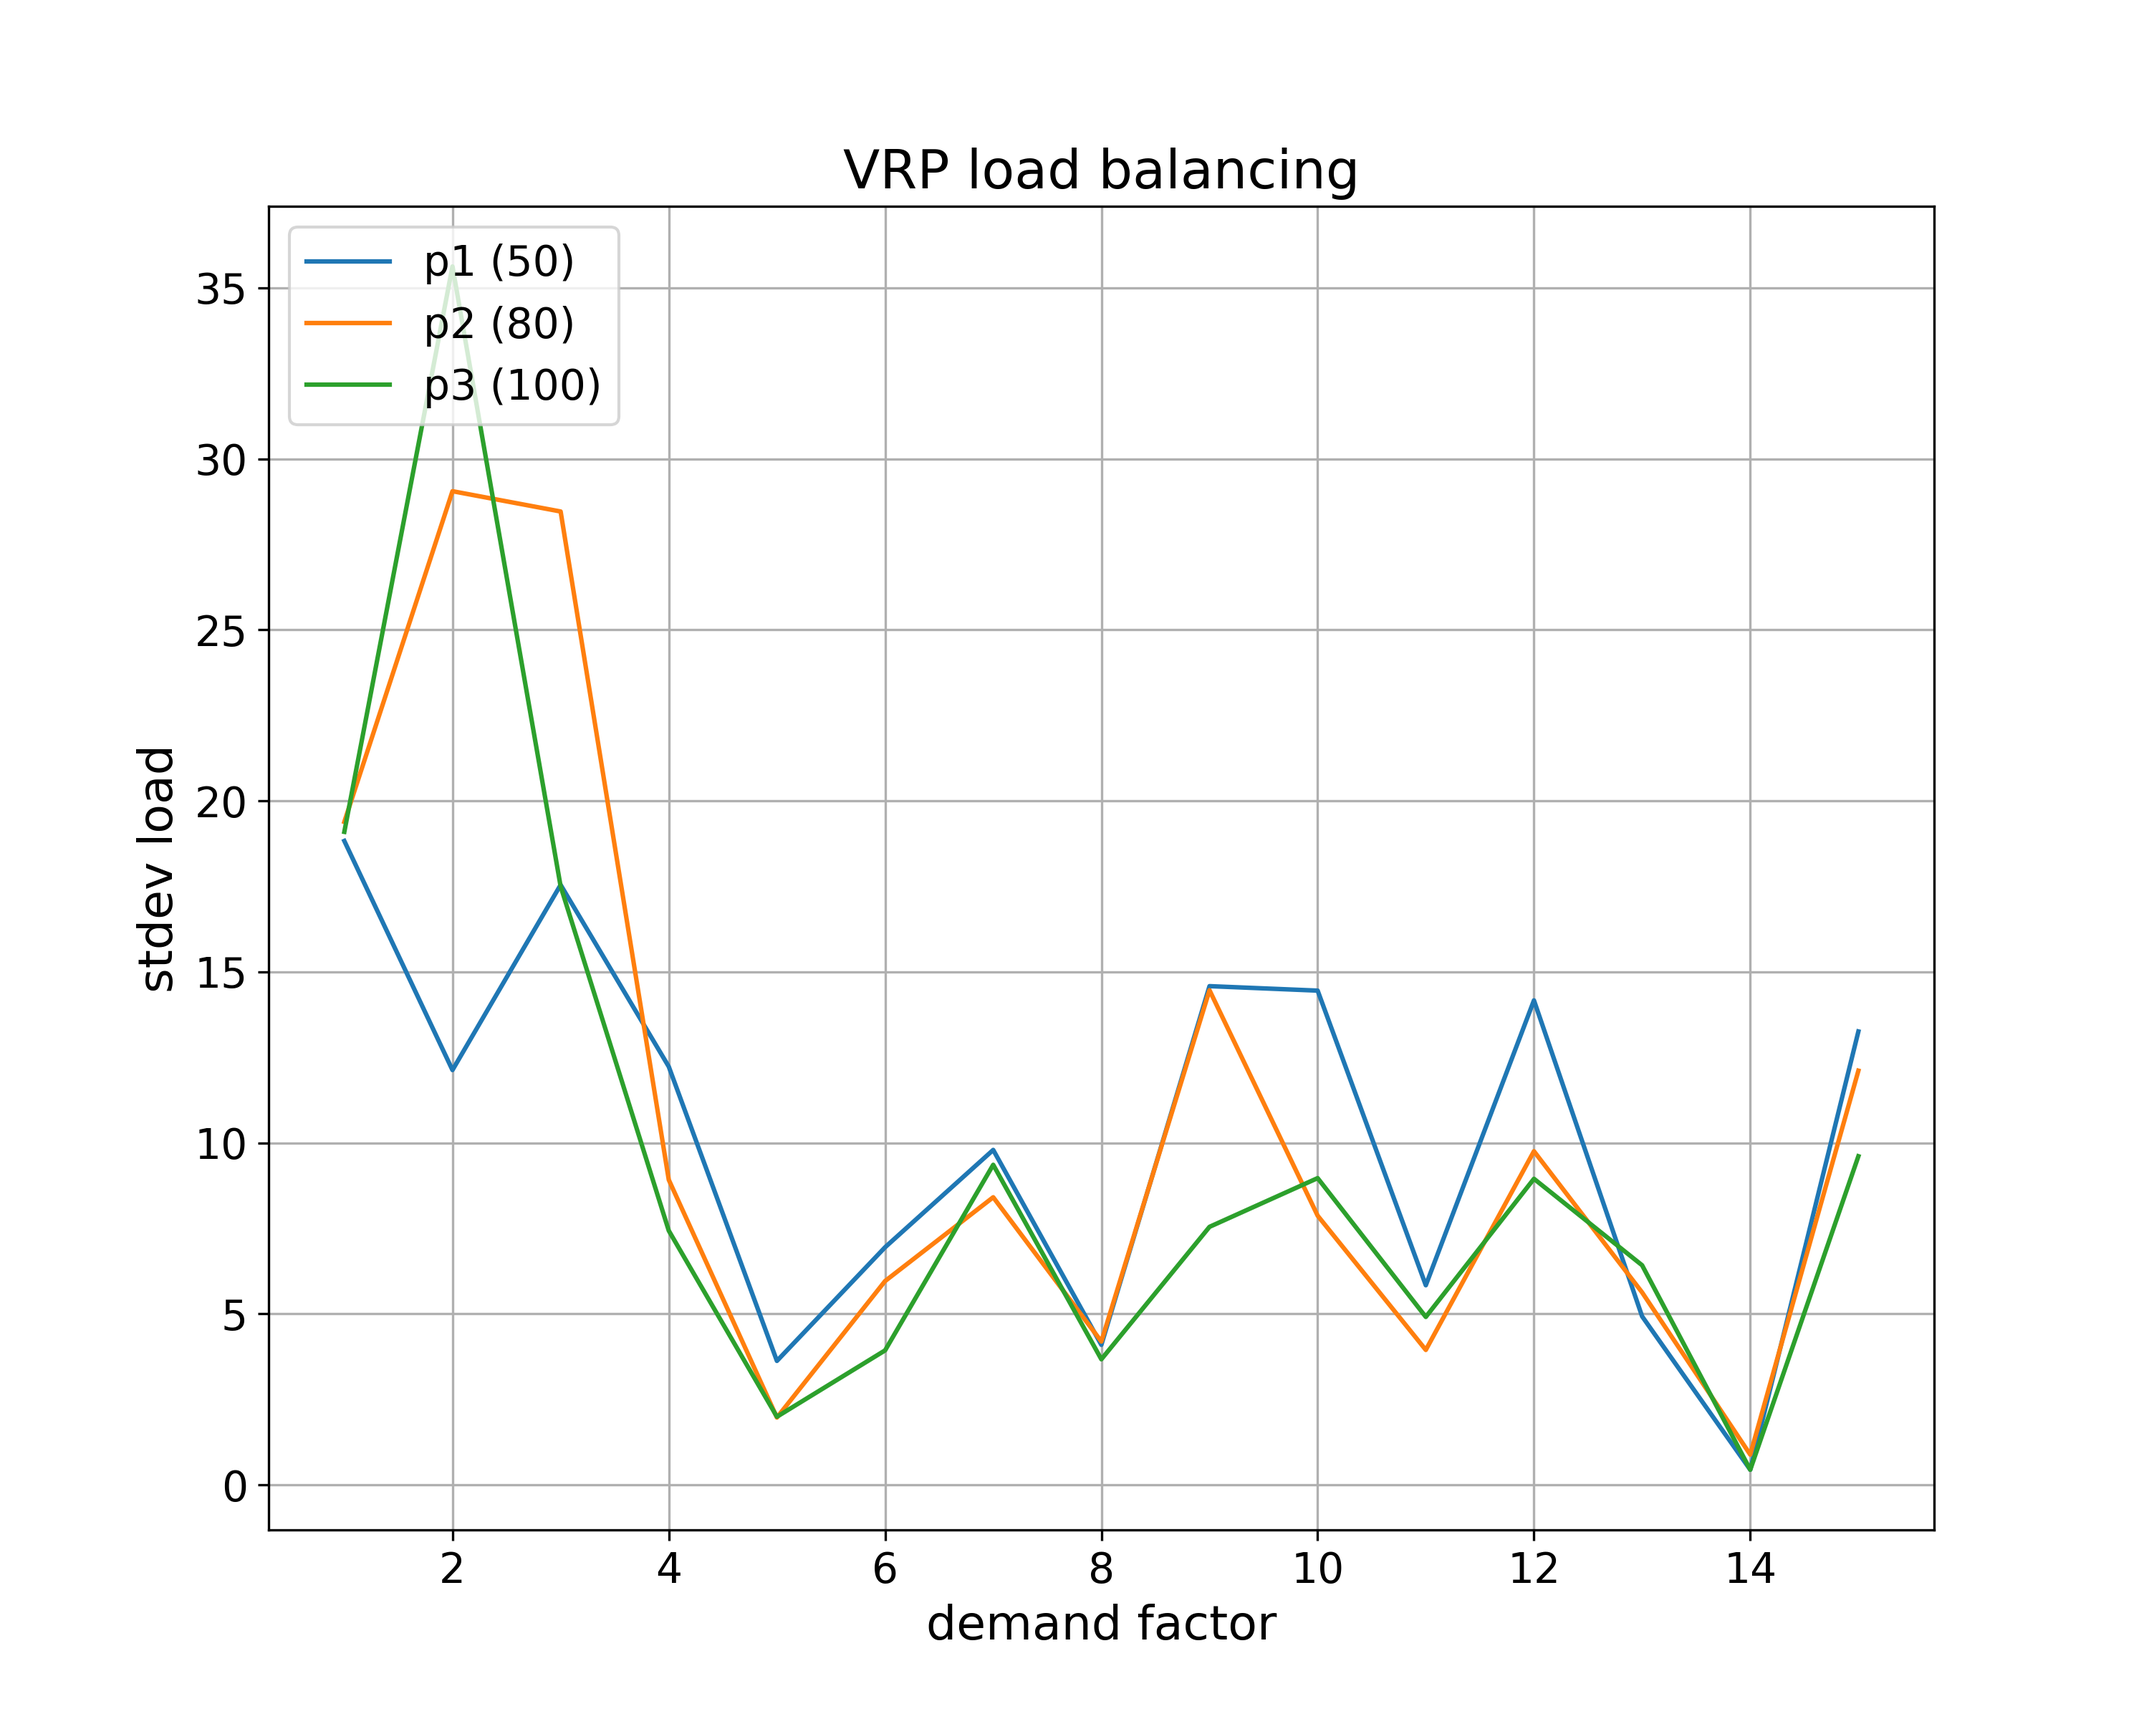
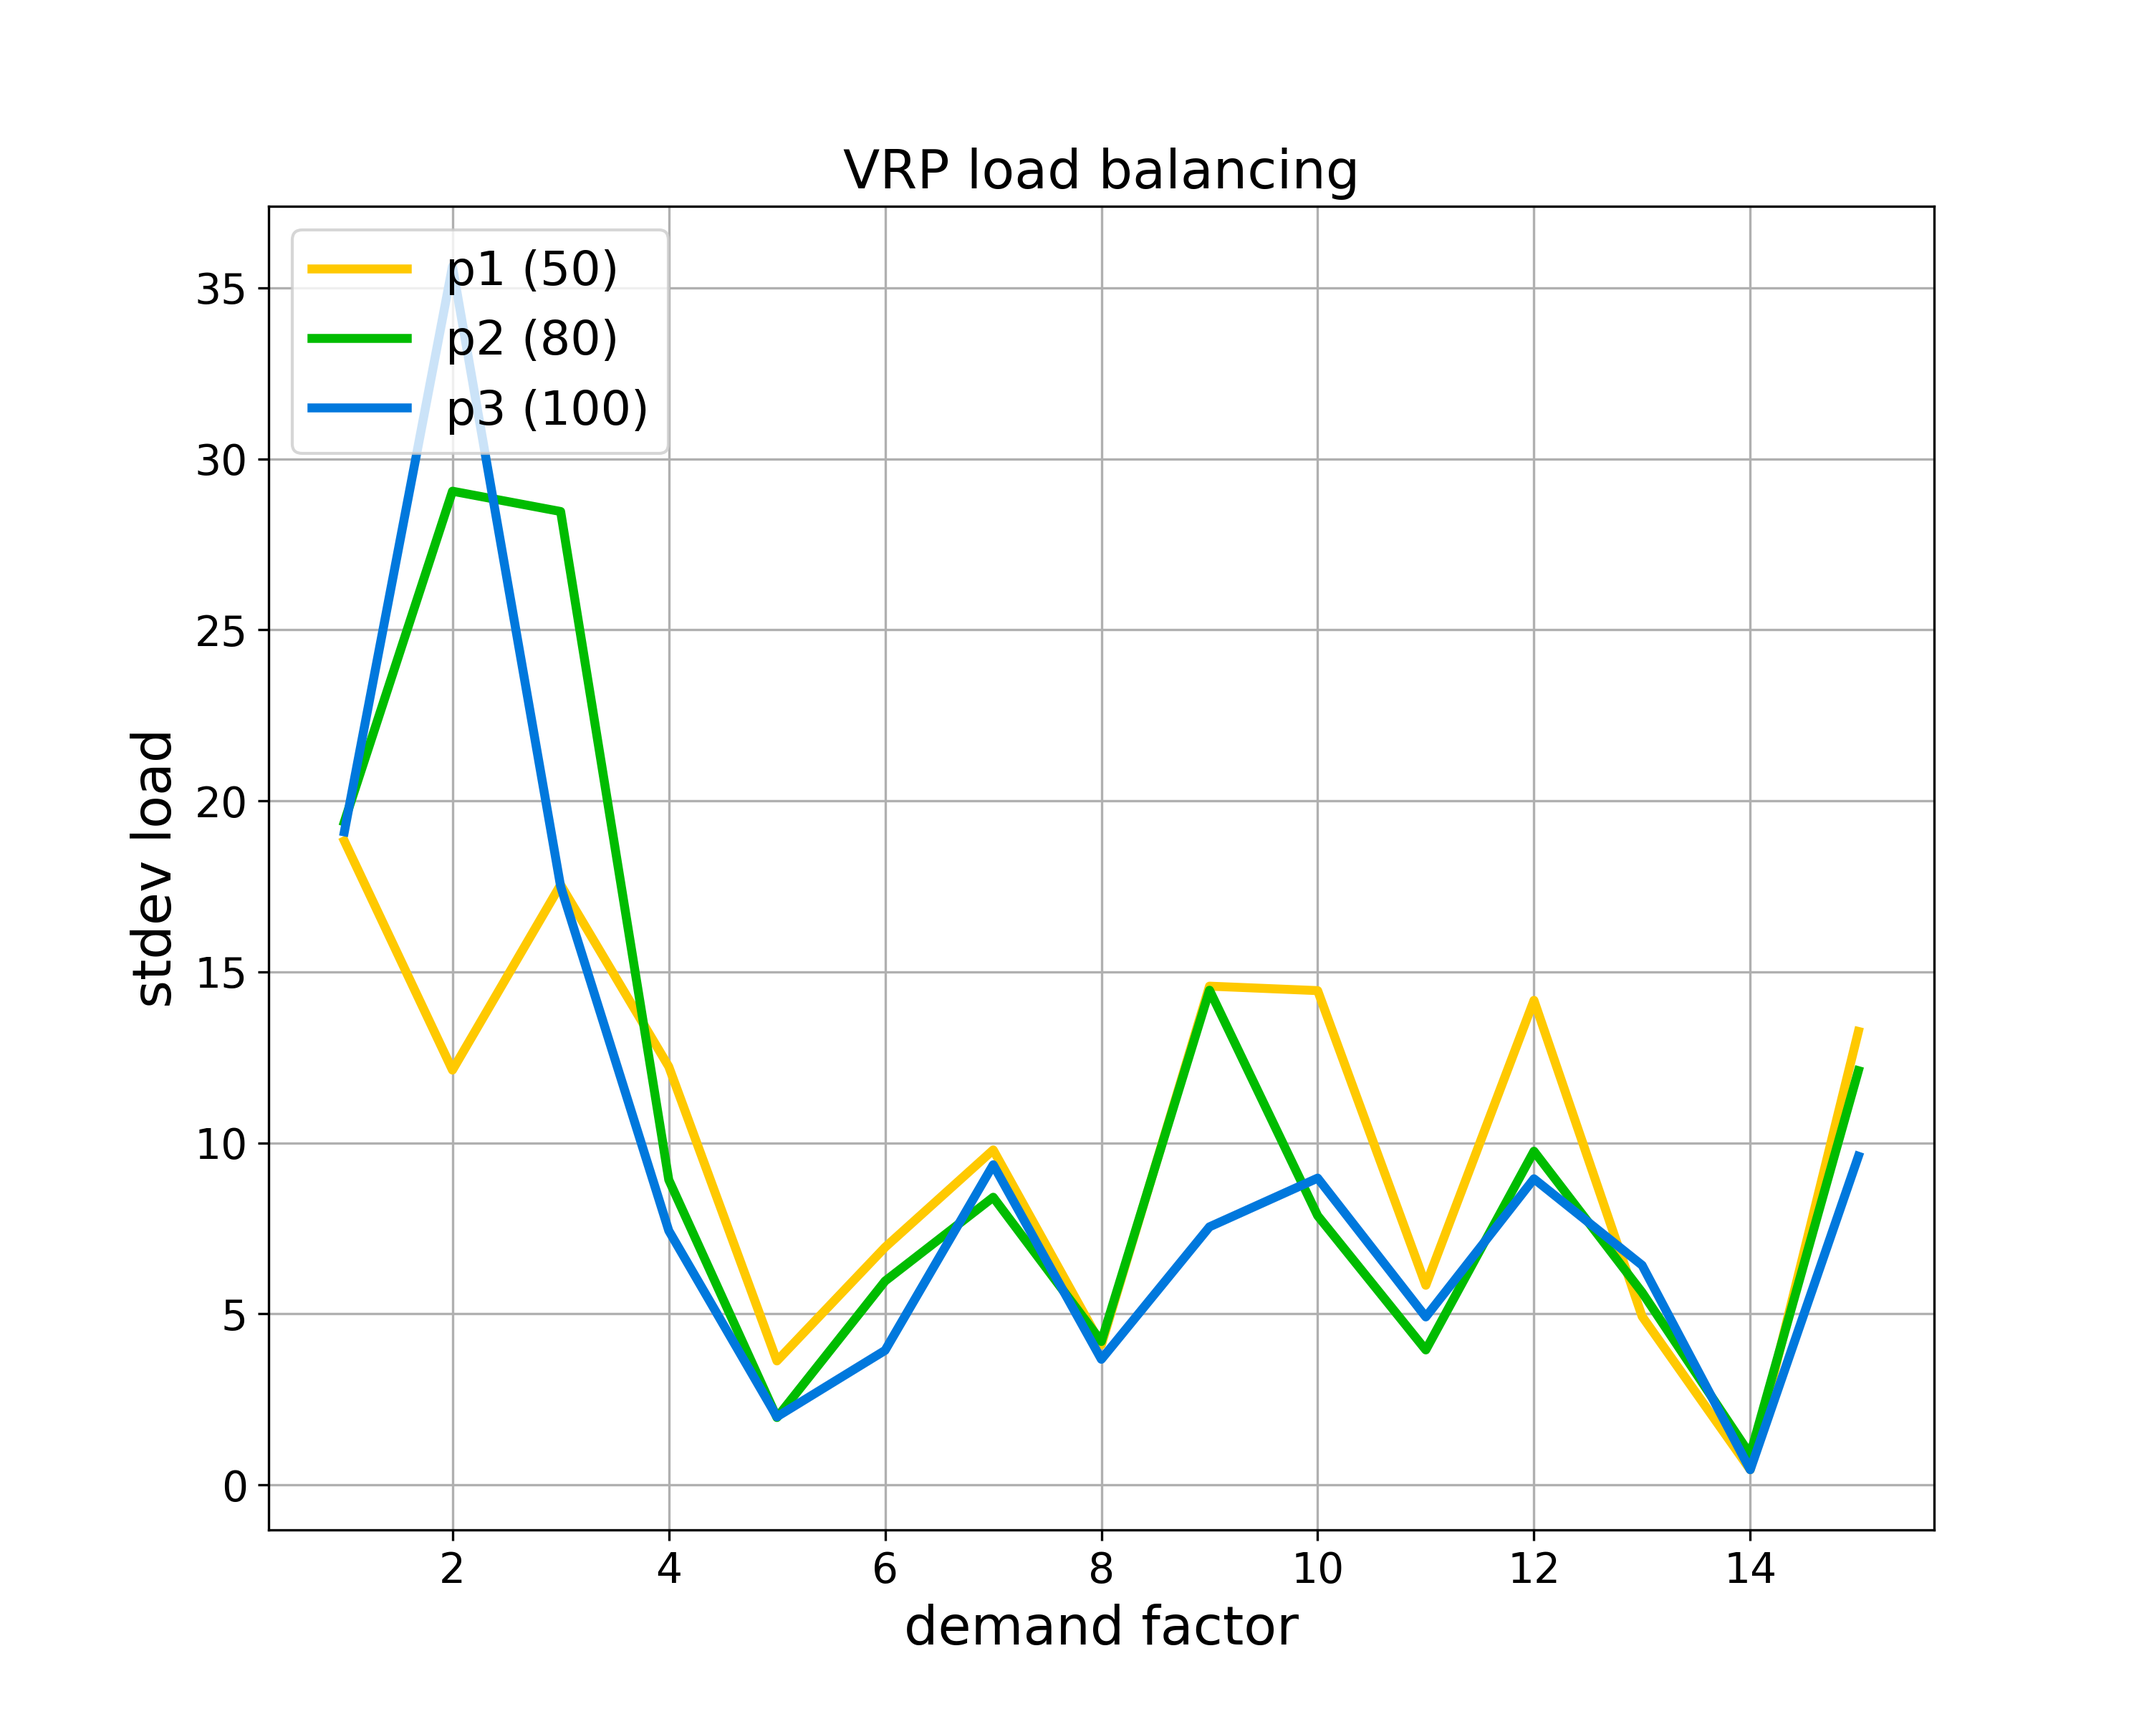
updated plot specs

Changed region(s): [[0.124, 0.125, 0.868, 0.875], [0.403, 0.9375, 0.62, 0.9688], [0.062, 0.4062, 0.093, 0.5938]]

diff --git a/simulator/plot_results.py b/simulator/plot_results.py
@@ -15,6 +15,7 @@ import numpy as np
 from modules import graph
 from modules import plot_routes
 import compute_geometry
+from modules import plotter
 
 
 def create_data_model():
@@ -128,13 +129,16 @@ def main():
 
     # set config
     plot_avg = True
-    # plot_avg = False
+    plot_avg = False
 
     plot_type = "load"
     # plot_type = "points"
     # plot_type = "dist"
 
     raw_mode = False
+    # raw_mode = True
+
+    scaled = False
 
     # Instantiate the data problem.
     data = create_data_model()
@@ -239,12 +243,12 @@ def main():
     print(shape)
 
     if not raw_mode:
-        
-        for i in range(shape[0]):
-            sum_specs = np.sum(mat_chart_np[i])
-            # print(sum_specs)
-            for j in range(shape[1]):
-                mat_chart_np[i][j] = mat_chart_np[i][j] / sum_specs
+        if scaled:
+            for i in range(shape[0]):
+                sum_specs = np.sum(mat_chart_np[i])
+                # print(sum_specs)
+                for j in range(shape[1]):
+                    mat_chart_np[i][j] = mat_chart_np[i][j] / sum_specs
         
         # print(mat_chart_np)
         mat_chart_np = np.transpose(mat_chart_np)
@@ -259,6 +263,11 @@ def main():
     labels = ["p" + str(i+1) + " (" + str(d) + ")" for i,
               d in enumerate(data['vehicle_capacities'])]
     colors = [None for d in data['vehicle_capacities']]
+
+    colors = plotter.create_discrete_cmap(data["vehicle_capacities"])
+    colors = [colors(i+1) for i in range(len(data['vehicle_capacities']))]
+    colors = list(reversed(colors))
+
     fig = graph.plot_timeseries_multi(mat_chart, demand_factor_range if not raw_mode else range(shape[1]), labels, colors,
                                       "VRP load balancing", "demand factor", "average " + plot_type if plot_avg else "stdev " + plot_type, False)
     fig.savefig("figs/results_"+plot_type+ "_" + ("avg" if plot_avg else "stdev") + ("_raw" if raw_mode else "") + ".png", dpi=300)

diff --git a/simulator/modules/graph.py b/simulator/modules/graph.py
@@ -21,7 +21,7 @@ import numpy as np
 # OPACITY = 0.9
 
 FSIZE_TITLE = 18
-FSIZE_LABEL = 16
+FSIZE_LABEL = 18
 FSIZE_LABEL_S = 16
 FSIZE_LABEL_XS = 14
 OPACITY = 0.9
@@ -56,13 +56,13 @@ def plot_timeseries_multi(timeseries_array, xval, labels, colors, title, xlabel,
         id += 1
         x = xval
         y = ts
-        plt.plot(x, y, label=labels[i], color=colors[i])
+        plt.plot(x, y, label=labels[i], color=colors[i], linewidth=3)
         # plt.plot(x, y)
 
         if separate:
             set_disp(title, xlabel, ylabel)
             plt.grid(zorder=0)
-            plt.legend(loc=legend_loc, fontsize=FSIZE_LABEL_XS)
+            plt.legend(loc=legend_loc, fontsize=FSIZE_LABEL_S)
             plt.show(block=False)
 
     # plt.xticks(rotation=rotation)
@@ -71,7 +71,7 @@ def plot_timeseries_multi(timeseries_array, xval, labels, colors, title, xlabel,
 
     if not separate:
         set_disp(title, xlabel, ylabel)
-        plt.legend(loc=legend_loc, fontsize=FSIZE_LABEL_XS)
+        plt.legend(loc=legend_loc, fontsize=FSIZE_LABEL_S)
         fig = plt.gcf()
         plt.show()
 

diff --git a/simulator/plot_results_vcg.py b/simulator/plot_results_vcg.py
@@ -15,6 +15,7 @@ import numpy as np
 from modules import graph
 from modules import plot_routes
 import compute_geometry
+from modules import plotter
 
 
 def create_data_model():
@@ -132,8 +133,8 @@ def main():
 
     plot_type = "load"
     plot_name = "load"
-    # plot_type = "points"
-    # plot_name = "points"
+    plot_type = "points"
+    plot_name = "points"
     # plot_type = "dist"
     # plot_name = "dist"
     
@@ -230,6 +231,10 @@ def main():
     labels = ["p" + str(i+1) + " (" + str(d) + ")" for i,
               d in enumerate(data['vehicle_capacities'])]
     colors = [None for d in data['vehicle_capacities']]
+
+    colors = plotter.create_discrete_cmap(data["vehicle_capacities"])
+    colors = [colors(i+1) for i in range(len(data['vehicle_capacities']))]
+    colors = list(reversed(colors))
 
     fig = graph.plot_timeseries_multi(mat_chart, range(shape[1]), labels, colors,
                                       "VCG load balancing", "simulation no.", "average " + plot_name if plot_avg else "stdev " + plot_name, False)

diff --git a/simulator/modules/plotter.py b/simulator/modules/plotter.py
@@ -19,6 +19,9 @@ def discrete_cmap(N, base_cmap=None):
     cmap_name = base.name + str(N)
     return base.from_list(cmap_name, color_list, N)
 
+def create_discrete_cmap(data):
+    cmap = discrete_cmap(len(data) + 2, 'nipy_spectral')
+    return cmap
 
 def plot_vehicle_routes(veh_route, ax1, customers, starts, ends, annotate):
     """
